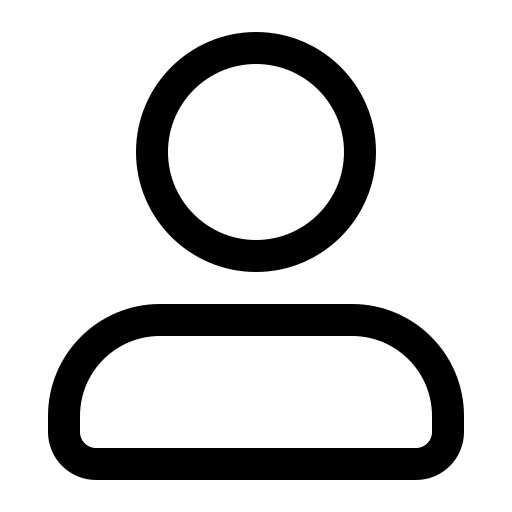
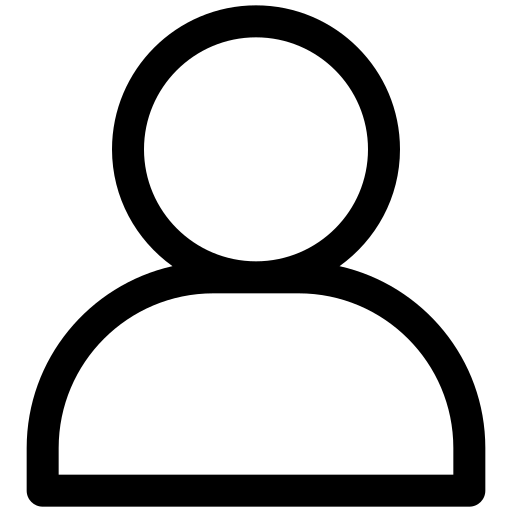
Add searchIcon to navbar

diff --git a/frontend/src/components/Navbar.jsx b/frontend/src/components/Navbar.jsx
@@ -1,6 +1,6 @@
 import React from "react";
 import { assets } from "../assets/assets";
-import { NavLink } from "react-router-dom";
+import { NavLink, Link } from "react-router-dom";
 
 const Navbar = () => {
   return (
@@ -37,10 +37,21 @@ const Navbar = () => {
 
         <div className="flex items-center gap-6 ml-auto">
           <img
-            src={assets.cart}
-            alt="Cart"
+            src={assets.searchIcon}
+            alt="Search"
             className="w-5 cursor-pointer opacity-80 hover:opacity-100 transition"
           />
+
+          <Link to="/cart" className="relative inline-block">
+            <img
+              src={assets.cart}
+              alt="Cart"
+              className="w-5 opacity-80 hover:opacity-100 transition"
+            />
+            <span className="absolute -top-2 -right-2 bg-[#C9A24D] text-white text-[10px] w-4 h-4 flex items-center justify-center rounded-full">
+              2
+            </span>
+          </Link>
 
           <img
             src={assets.loginImg}

diff --git a/frontend/src/App.jsx b/frontend/src/App.jsx
@@ -3,6 +3,7 @@ import Navbar from "./components/Navbar";
 import Home from "./pages/Home";
 import About from "./pages/About";
 import Collections from "./pages/Collections";
+import Cart from "./pages/Cart";
 import Login from "./pages/Login";
 import NotFound from "./pages/404";
 import { Routes, Route } from "react-router-dom";
@@ -15,6 +16,7 @@ const App = () => {
         <Route path="/" element={<Home />} />
         <Route path="/about" element={<About />} />
         <Route path="/collections" element={<Collections />} />
+        <Route path="/cart" element={<Cart />} />
         <Route path="/login" element={<Login />} />
         <Route path="*" element={<NotFound />} />
       </Routes>

diff --git a/frontend/src/assets/assets.js b/frontend/src/assets/assets.js
@@ -3,5 +3,13 @@ import aboutUs from "./aboutUs.png";
 import notfoundPage from "./404error.png";
 import loginImg from "./login.png";
 import cart from "./cart.png";
+import searchIcon from "./search.png";
 
-export const assets = { logo, aboutUs, notfoundPage, loginImg, cart };
+export const assets = {
+  logo,
+  aboutUs,
+  notfoundPage,
+  loginImg,
+  cart,
+  searchIcon,
+};

diff --git a/frontend/src/pages/Cart.jsx b/frontend/src/pages/Cart.jsx
@@ -1,0 +1,7 @@
+import React from "react";
+
+const Cart = () => {
+  return <div>Cart</div>;
+};
+
+export default Cart;
